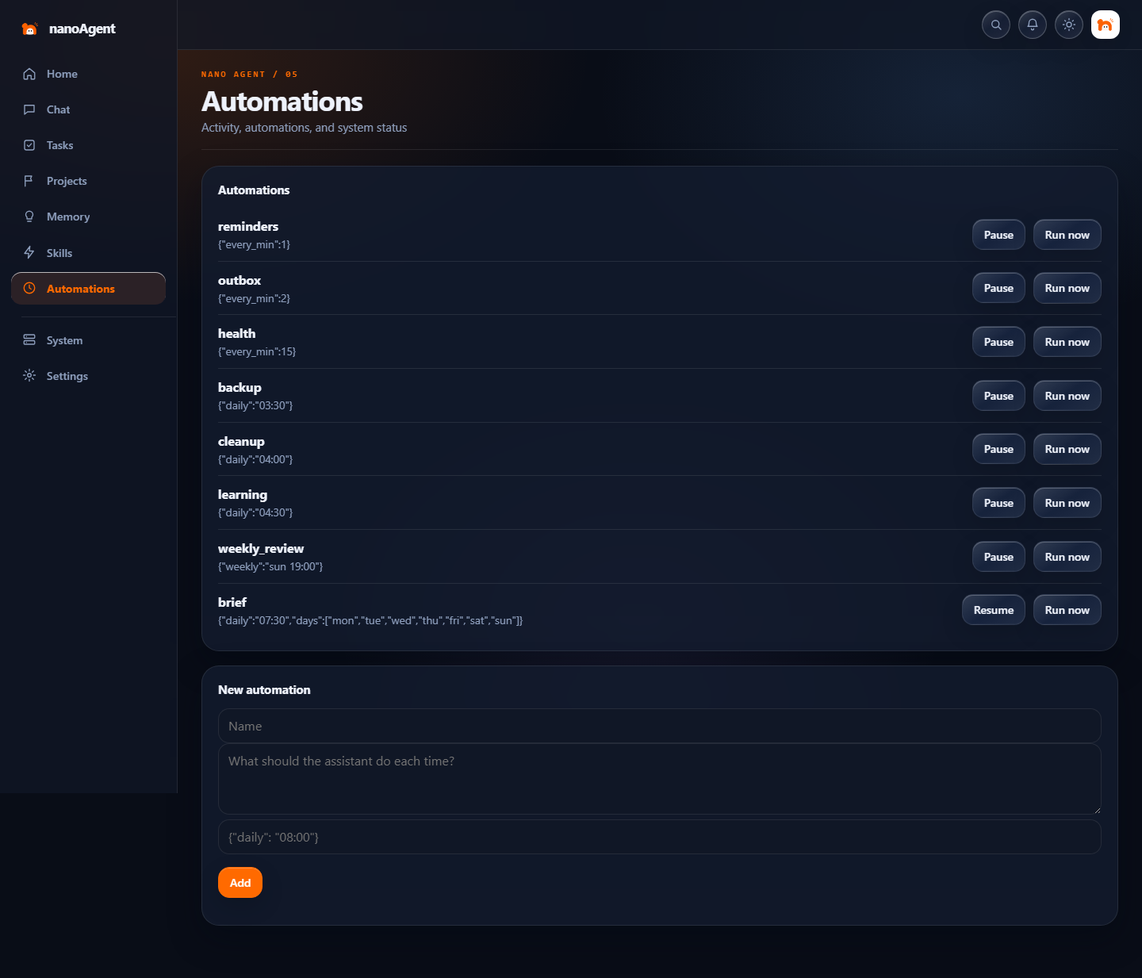
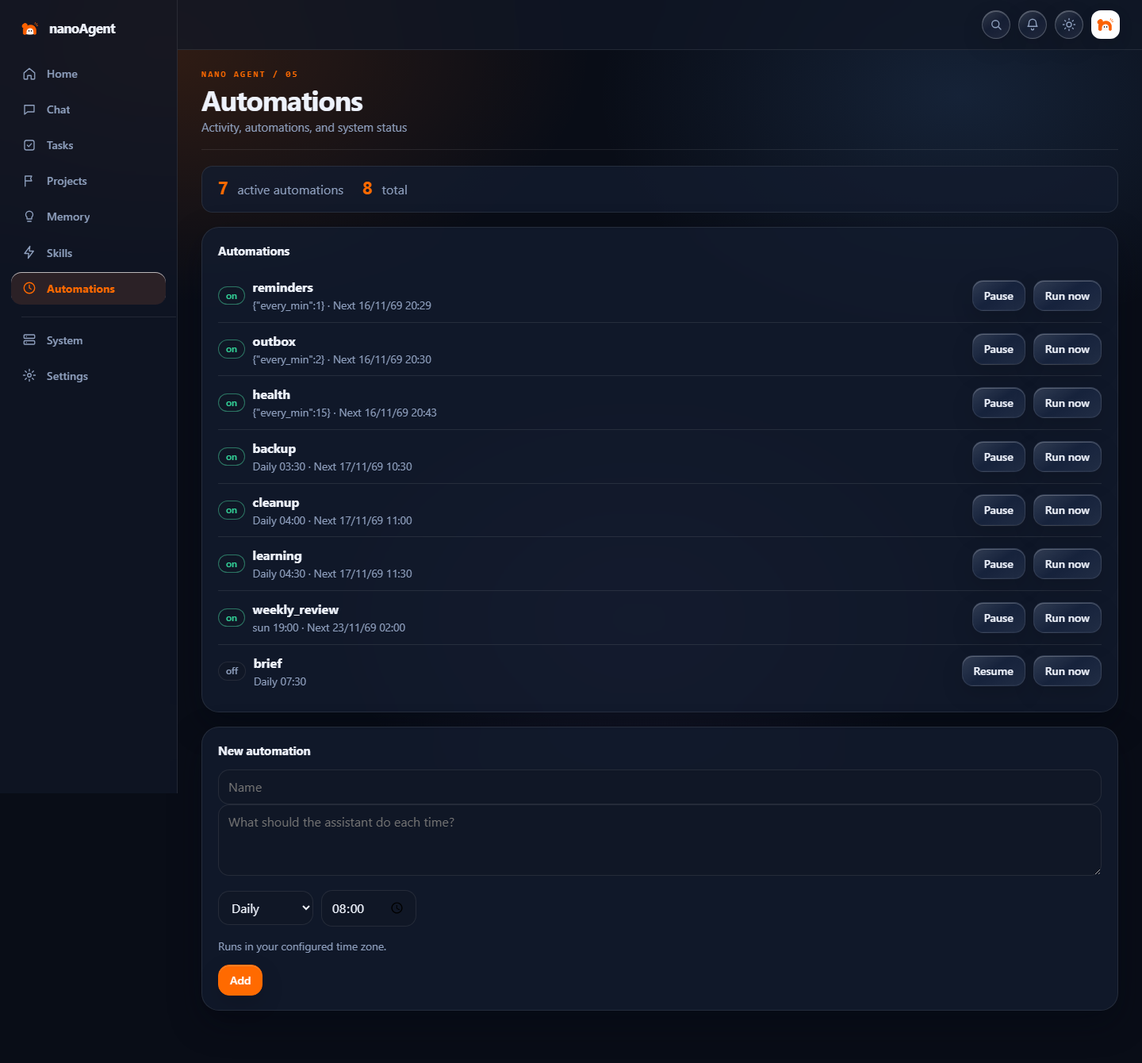
Expand console management pages and add projects

diff --git a/src/nanoagent/gateway/static/console.js b/src/nanoagent/gateway/static/console.js
@@ -401,11 +401,45 @@ async function vChat() {
 // ---------- manage ----------
 async function vProjects() {
   const v = clear();
+  const data = await api("/projects"), items = data.items || [];
+  const name = h("input", { placeholder: lang === "th" ? "ชื่อโปรเจกต์" : "Project name", maxlength: 100 });
+  const goal = h("input", { placeholder: lang === "th" ? "เป้าหมาย" : "Goal", maxlength: 500 });
+  const deadline = h("input", { type: "date", "aria-label": lang === "th" ? "กำหนดส่ง" : "Deadline" });
+  const next = h("input", { placeholder: lang === "th" ? "ขั้นต่อไป" : "Next step", maxlength: 300 });
   v.append(viewHeading(lang === "th" ? "โปรเจกต์" : "Projects",
-    lang === "th" ? "พื้นที่สำหรับงานหลายขั้นตอนและตัวแทนในอนาคต" : "A home for longer work and future agent teams.", 4),
-    panel(lang === "th" ? "โปรเจกต์ของคุณ" : "Your projects",
-      h("div", { class: "jv-empty-box" }, ico("projects", "ico ico-lg"),
-        h("p", { class: "jv-note", text: lang === "th" ? "ยังไม่มีโปรเจกต์ที่ติดตาม" : "No projects tracked yet." }))));
+    lang === "th" ? "ความคืบหน้า หมุดหมาย และสิ่งที่ติดขัด" : "Goals, milestones, and blockers in one place.", 4),
+    h("div", { class: "page-summary" },
+      h("strong", { text: String(items.length) }), h("span", { text: lang === "th" ? "โปรเจกต์ที่กำลังทำ" : "active projects" })),
+    panel(lang === "th" ? "เริ่มโปรเจกต์" : "Start a project",
+      h("div", { class: "project-form" }, name, goal, deadline, next),
+      h("button", { class: "pri", onclick: async () => { const r = await act("/projects", { name: name.value, goal: goal.value, deadline: deadline.value, next_step: next.value }); if (r.ok) vProjects(); }, text: lang === "th" ? "สร้างโปรเจกต์" : "Create project" })));
+  if (!items.length) v.append(panel(lang === "th" ? "โปรเจกต์ของคุณ" : "Your projects",
+    h("div", { class: "jv-empty-box" }, ico("projects", "ico ico-lg"),
+      h("p", { class: "jv-note", text: lang === "th" ? "ยังไม่มีโปรเจกต์ เริ่มจากชื่อและเป้าหมายด้านบน" : "No projects yet. Add a name and goal above." }))));
+  for (const p of items) {
+    const pct = p.progress.total ? Math.round(p.progress.done / p.progress.total * 100) : 0;
+    const kind = h("select", { "aria-label": lang === "th" ? "ประเภทรายการ" : "Item type" },
+      [["milestone", "Milestone"], ["blocker", "Blocker"], ["note", "Note"], ["decision", "Decision"]].map(([value, label]) => h("option", { value, text: label })));
+    const detail = h("input", { placeholder: lang === "th" ? "อธิบายรายการ" : "Describe a milestone, blocker, note, or decision", maxlength: 500 });
+    const itemDue = h("input", { type: "date", "aria-label": lang === "th" ? "กำหนดหมุดหมาย" : "Milestone due date" });
+    const itemRow = (x) => h("div", { class: "row" },
+      h("span", { class: "tag " + (x.done ? "ok" : x.kind === "blocker" ? "bad" : ""), text: x.kind }),
+      h("span", { class: "grow", text: x.text }), x.due ? h("span", { class: "dim", text: x.due }) : null,
+      ["milestone", "blocker"].includes(x.kind) && !x.done ? h("button", { onclick: async () => { const r = await post(`/projects/${p.id}/items/${x.id}/complete`); if (r.ok) vProjects(); else toast(r.error); }, text: x.kind === "blocker" ? "Resolved" : t("done") }) : null);
+    v.append(panel(p.name,
+      h("div", { class: "project-meta" },
+        p.deadline ? h("span", { class: "tag", text: (lang === "th" ? "กำหนด " : "Due ") + p.deadline }) : null,
+        h("span", { class: "dim", text: `${p.progress.done}/${p.progress.total} ${lang === "th" ? "หมุดหมาย" : "milestones"}` })),
+      h("div", { class: "bar project-progress" }, h("i", { style: `width:${pct}%` })),
+      p.goal ? h("p", null, h("b", { text: lang === "th" ? "เป้าหมาย: " : "Goal: " }), h("span", { text: p.goal })) : null,
+      p.next_step ? h("p", null, h("b", { text: lang === "th" ? "ขั้นต่อไป: " : "Next step: " }), h("span", { text: p.next_step })) : null,
+      h("h4", { text: lang === "th" ? "สิ่งที่ติดขัด" : "Blockers" }), ...(p.blockers.length ? p.blockers.map(itemRow) : [h("p", { class: "dim", text: lang === "th" ? "ไม่มีสิ่งที่ติดขัด" : "No blockers" })]),
+      h("h4", { text: lang === "th" ? "หมุดหมาย" : "Milestones" }), ...(p.milestones.length ? p.milestones.map(itemRow) : [h("p", { class: "dim", text: lang === "th" ? "ยังไม่มีหมุดหมาย" : "No milestones yet" })]),
+      p.recent.length ? h("details", null, h("summary", { text: lang === "th" ? "บันทึกและการตัดสินใจ" : "Notes and decisions" }), ...p.recent.map(itemRow)) : null,
+      h("div", { class: "project-add" }, kind, detail, itemDue,
+        h("button", { onclick: async () => { const r = await act(`/projects/${p.id}/items`, { kind: kind.value, text: detail.value, due: itemDue.value }); if (r.ok) vProjects(); }, text: t("add") })),
+      h("button", { class: "bad project-close", onclick: async () => { if (confirm(lang === "th" ? "ปิดโปรเจกต์นี้?" : "Close this project?")) { const r = await post(`/projects/${p.id}/close`); if (r.ok) vProjects(); else toast(r.error); } }, text: lang === "th" ? "ปิดโปรเจกต์" : "Close project" })));
+  }
 }
 async function vManage() {
   const v = clear(); const cur = sub.manage || "tasks";
@@ -413,8 +447,13 @@ async function vManage() {
     chips([["tasks", t("sub_tasks")], ["drafts", t("sub_drafts")]], cur, k => { sub.manage = k; vManage(); }));
   if (cur === "drafts") { const d = await api("/drafts"); v.append(d.drafts.length ? draftsPanel(d.drafts, vManage) : panel(t("drafts_none"))); return; }
   const d = await api("/tasks"); const title = h("input", { placeholder: t("task_title") }), due = h("input", { placeholder: t("task_due") });
+  const open = d.tasks.filter(x => !x.done), overdue = open.filter(x => x.due && new Date(x.due.replace(" ", "T")) < new Date());
+  v.append(h("div", { class: "page-summary" }, h("strong", { text: String(open.length) }), h("span", { text: lang === "th" ? "งานค้าง" : "open tasks" }),
+    h("strong", { text: String(overdue.length) }), h("span", { text: lang === "th" ? "เลยกำหนด" : "overdue" }),
+    h("strong", { text: String(d.reminders.length) }), h("span", { text: lang === "th" ? "การเตือน" : "reminders" })));
   v.append(panel(t("task_add"), title, h("div", { style: "height:6px" }), due, h("p", null, h("button", { class: "pri", onclick: async () => { const r = await act("/tasks", { title: title.value, due: due.value }); if (r.ok) vManage(); }, text: t("add") }))));
-  v.append(panel(t("tasks_title"), ...d.tasks.map(x => h("div", { class: "row" }, h("span", { class: "grow", style: x.done ? "text-decoration:line-through;opacity:.5" : "", text: x.title }), h("span", { class: "dim", text: x.due }),
+  v.append(panel(t("tasks_title"), ...d.tasks.map(x => h("div", { class: "row" }, h("span", { class: "grow", style: x.done ? "text-decoration:line-through;opacity:.5" : "", text: x.title }),
+    h("span", { class: "tag " + (x.done ? "ok" : overdue.some(y => y.id === x.id) ? "bad" : ""), text: x.done ? t("done") : x.due || (lang === "th" ? "ไม่มีกำหนด" : "No due date") }),
     x.done ? null : h("button", { onclick: async () => { await post("/tasks/" + x.id + "/complete"); vManage(); }, text: t("done") })))));
   const rt = h("input", { placeholder: t("rem_text") }), rw = h("input", { placeholder: t("rem_when") });
   v.append(panel(t("reminders_title"), ...d.reminders.map(r => h("div", { class: "row" }, h("span", { class: "grow", text: r.text }), h("span", { class: "dim", text: r.due }))), rt, h("div", { style: "height:6px" }), rw,
@@ -431,12 +470,18 @@ async function vMind() {
 }
 async function mMemory(v) {
   const d = await api("/memory"); const inp = h("input", { placeholder: t("memory_add_ph") });
+  const overview = d.overview || {}, kinds = ["fact", "rule", "lesson"];
+  v.append(h("div", { class: "page-summary" }, h("strong", { text: String(d.items.length) }), h("span", { text: lang === "th" ? "ความจำทั้งหมด" : "memories" }),
+    ...kinds.flatMap(k => [h("strong", { text: String(overview[k] || 0) }), h("span", { text: k })])));
   v.append(panel(t("memory_add"), inp, h("p", null, h("button", { class: "pri", onclick: async () => { const r = await act("/memory", { text: inp.value }); if (r.ok) vMind(); }, text: t("add") }))));
   v.append(panel(t("memory_title"), d.items.length ? d.items.map(m => h("div", { class: "row" }, h("span", { class: "tag", text: m.kind }), h("span", { class: "grow", text: m.text }), h("span", { class: "dim", text: m.source }),
     h("button", { class: "bad", onclick: async () => { await del("/memory/" + m.id); vMind(); }, text: t("delete") }))) : h("p", { class: "dim", text: t("memory_none") })));
 }
 async function mSkills(v) {
   const d = await api("/skills"); const txt = h("textarea", { placeholder: t("skill_import_ph") }), url = h("input", { placeholder: "https://github.com/owner/repo" });
+  const enabled = d.skills.filter(s => s.enabled && !s.pending).length, pending = d.skills.filter(s => s.pending).length;
+  v.append(h("div", { class: "page-summary" }, h("strong", { text: String(enabled) }), h("span", { text: lang === "th" ? "ทักษะที่เปิด" : "enabled skills" }),
+    h("strong", { text: String(pending) }), h("span", { text: lang === "th" ? "รอตรวจ" : "awaiting review" })));
   v.append(panel(t("skills_title"), d.skills.length ? d.skills.map(s => h("div", { class: "row" }, h("span", { class: "grow" }, h("b", { text: s.name }), h("div", { class: "dim", text: s.description })),
     h("span", { class: "tag " + (s.pending ? "warn" : s.enabled ? "ok" : ""), text: s.pending ? t("skill_pending") : s.enabled ? t("on") : t("off") }), h("button", { onclick: () => skillSheet(s), text: t("open") }))) : h("p", { class: "dim", text: t("skills_none") })));
   v.append(panel(t("skill_import"), h("p", { class: "dim", text: t("skill_import_note") }), url, h("p", null, h("button", { onclick: async () => { const r = await post("/skills/import", { kind: "url", url: url.value }); toast(JSON.stringify((r.results || []).map(x => x.ok ? x.name : x.error))); vMind(); }, text: t("import_github") })),
@@ -488,13 +533,30 @@ async function vWork() {
   if (!fixed) v.append(chips([["activity", t("sub_activity")], ["auto", t("sub_auto")], ["system", t("sub_system")]], cur, k => { sub.work = k; vWork(); }));
   if (cur === "activity") { const a = await api("/activity"); const row = x => h("div", { class: "row" }, h("span", { class: "tag " + (x.status === "done" ? "ok" : x.status === "failed" ? "bad" : "warn"), text: x.status }), h("span", { class: "grow" }, h("b", { text: x.title }), x.steps.length ? h("div", { class: "dim", text: x.steps.slice(-3).map(s => s.text).join(" · ") }) : null), h("span", { class: "dim", text: Math.round(x.secs) + "s" }));
     v.append(panel(t("running_title"), a.running.length ? a.running.map(row) : h("p", { class: "dim", text: t("work_idle") })), panel(t("recent_title"), a.done.map(row))); }
-  if (cur === "auto") { const a = await api("/automations"); const nm = h("input", { placeholder: t("auto_name") }), pr = h("textarea", { placeholder: t("auto_prompt") }), sc = h("input", { placeholder: '{"daily": "08:00"}' });
-    v.append(panel(t("auto_title"), a.items.map(x => h("div", { class: "row" }, h("span", { class: "grow" }, h("b", { text: x.name }), h("div", { class: "dim", text: JSON.stringify(x.schedule) + (x.last_status ? " · " + x.last_status : "") })),
+  if (cur === "auto") { const a = await api("/automations"); const nm = h("input", { placeholder: t("auto_name") }), pr = h("textarea", { placeholder: t("auto_prompt") });
+    const frequency = h("select", { "aria-label": lang === "th" ? "ความถี่" : "Frequency" },
+      h("option", { value: "daily", text: lang === "th" ? "ทุกวัน" : "Daily" }), h("option", { value: "weekly", text: lang === "th" ? "ทุกสัปดาห์" : "Weekly" }));
+    const day = h("select", { "aria-label": lang === "th" ? "วัน" : "Day of week" },
+      ...["mon", "tue", "wed", "thu", "fri", "sat", "sun"].map(d => h("option", { value: d, text: d.toUpperCase() })));
+    const at = h("input", { type: "time", value: "08:00", "aria-label": lang === "th" ? "เวลา" : "Time" });
+    frequency.addEventListener("change", () => { day.hidden = frequency.value !== "weekly"; }); day.hidden = true;
+    const scheduleText = x => x.schedule.daily ? (lang === "th" ? "ทุกวัน " : "Daily ") + x.schedule.daily : x.schedule.weekly ? x.schedule.weekly : JSON.stringify(x.schedule);
+    v.append(h("div", { class: "page-summary" }, h("strong", { text: String(a.items.filter(x => x.enabled).length) }), h("span", { text: lang === "th" ? "ระบบที่เปิดอยู่" : "active automations" }),
+      h("strong", { text: String(a.items.length) }), h("span", { text: lang === "th" ? "ทั้งหมด" : "total" })),
+      panel(t("auto_title"), a.items.length ? a.items.map(x => h("div", { class: "row" }, h("span", { class: "tag " + (x.enabled ? "ok" : ""), text: x.enabled ? t("on") : t("off") }),
+      h("span", { class: "grow" }, h("b", { text: x.name }), h("div", { class: "dim", text: scheduleText(x) + (x.next_run && x.enabled ? " · Next " + when(x.next_run) : "") + (x.last_status ? " · " + x.last_status : "") })),
       h("button", { onclick: async () => { await post("/automations/" + x.id + "/toggle", { enabled: !x.enabled }); vWork(); }, text: x.enabled ? t("pause") : t("resume") }), h("button", { onclick: async () => { const r = await post("/automations/" + x.id + "/run"); toast(r.status || r.error); }, text: t("run_now") }),
-      x.builtin ? null : h("button", { class: "bad", onclick: async () => { await del("/automations/" + x.id); vWork(); }, text: t("delete") })))),
-      panel(t("auto_new"), nm, pr, sc, h("p", null, h("button", { class: "pri", onclick: async () => { let s; try { s = JSON.parse(sc.value); } catch (e) { return toast("JSON"); } const r = await act("/automations", { name: nm.value, prompt: pr.value, schedule: s }); if (r.ok) vWork(); }, text: t("add") })))); }
+      x.builtin ? null : h("button", { class: "bad", onclick: async () => { if (confirm(lang === "th" ? "ลบระบบนี้?" : "Delete this automation?")) { await del("/automations/" + x.id); vWork(); } }, text: t("delete") }))) : h("p", { class: "dim", text: lang === "th" ? "ยังไม่มีระบบอัตโนมัติ" : "No automations yet." })),
+      panel(t("auto_new"), nm, pr, h("div", { class: "auto-schedule" }, frequency, day, at),
+        h("p", { class: "dim", text: lang === "th" ? "ระบบจะทำงานตามเวลาในเขตเวลาที่ตั้งไว้" : "Runs in your configured time zone." }),
+        h("button", { class: "pri", onclick: async () => { const schedule = frequency.value === "weekly" ? { weekly: `${day.value} ${at.value}` } : { daily: at.value }; const r = await act("/automations", { name: nm.value, prompt: pr.value, schedule }); if (r.ok) vWork(); }, text: t("add") }))); }
   if (cur === "system") { const s = await api("/system"), i = s.info; const bar = (l, p) => p == null ? null : h("div", { class: "row" }, h("span", { class: "grow", text: l }), h("div", { class: "bar", style: "width:50%" }, h("i", { style: "width:" + p + "%" })), h("span", { class: "dim", text: p + "%" }));
-    v.append(panel(t("system_title"), h("p", { class: "dim", text: `${i.host} · ${i.os} · Python ${i.python} · nano Agent ${i.version}` }), bar("CPU", i.cpu_pct), bar("RAM", i.ram_pct), bar("Disk", i.disk_pct),
+    const resources = [["CPU", i.cpu_pct], ["RAM", i.ram_pct], ["Disk", i.disk_pct], [i.gpu ? i.gpu.name : "GPU", i.gpu?.util_pct]];
+    v.append(h("div", { class: "page-summary" }, h("strong", { text: String(s.health.filter(x => x.ok).length) }), h("span", { text: lang === "th" ? "รายการปกติ" : "healthy checks" }),
+      h("strong", { text: String(s.health.length - s.health.filter(x => x.ok).length) }), h("span", { text: lang === "th" ? "ต้องดู" : "need attention" })),
+      panel(t("system_title"), h("p", { class: "dim", text: `${i.host} · ${i.os} · Python ${i.python} · nano Agent ${i.version}` }),
+      h("div", { class: "resource-grid" }, resources.map(([name, pct]) => h("div", { class: "resource-card" }, h("strong", { text: pct == null ? "—" : `${Math.round(pct)}%` }), h("span", { text: name }))))));
+    v.append(panel(lang === "th" ? "การใช้ทรัพยากร" : "Resource usage", bar("CPU", i.cpu_pct), bar("RAM", i.ram_pct), bar("Disk", i.disk_pct),
       i.gpu ? bar("GPU " + i.gpu.name, i.gpu.util_pct) : null, i.cpu_pct == null ? h("p", { class: "dim", text: t("system_psutil") }) : null),
       panel(t("health_title"), s.health.map(c => h("div", { class: "row" }, h("span", { class: "tag " + (c.ok ? "ok" : "bad"), text: c.ok ? "OK" : "!" }), h("span", { class: "grow", text: c.name }), h("span", { class: "dim", text: c.detail })))),
       panel(t("providers_title"), Object.entries(s.providers).map(([n, p]) => h("div", { class: "row" }, h("b", { text: n }), h("span", { class: "dim grow", text: p.kind + " · " + p.base_url }))), h("p", null, h("button", { onclick: async () => { const r = await post("/models/test"); toast(r.ok ? "OK: " + r.model : r.message); }, text: t("test_model") }))),

diff --git a/src/nanoagent/gateway/static/dashboard.css b/src/nanoagent/gateway/static/dashboard.css
@@ -444,6 +444,21 @@ button:focus-visible, .btn:focus-visible, input:focus-visible, textarea:focus-vi
 
 .bar { height: 8px; border-radius: 999px; background: var(--bg-elev); border: 1px solid var(--line); overflow: hidden; }
 .bar > i { display: block; height: 100%; background: var(--accent); border-radius: 999px; }
+.page-summary { display: flex; align-items: baseline; flex-wrap: wrap; gap: 5px 12px; padding: 16px 20px; margin: 0 0 18px; border: 1px solid var(--line); border-radius: var(--radius-sm); background: var(--panel); color: var(--dim); }
+.page-summary strong { color: var(--accent); font-size: 1.35rem; line-height: 1; margin-left: 12px; }
+.page-summary strong:first-child { margin-left: 0; }
+.project-form { display: grid; grid-template-columns: repeat(2, minmax(0, 1fr)); gap: 10px; margin: 10px 0 14px; }
+.project-meta, .project-add, .auto-schedule { display: flex; align-items: center; flex-wrap: wrap; gap: 10px; margin: 12px 0; }
+.project-progress { height: 10px; margin: 14px 0; }
+.project-add input { flex: 1 1 230px; }
+.project-add select, .auto-schedule select, .auto-schedule input { width: auto; min-width: 120px; }
+.project-close { margin-top: 16px; }
+.panel h4 { margin: 20px 0 5px; font-size: .88rem; }
+.resource-grid { display: grid; grid-template-columns: repeat(4, minmax(0, 1fr)); gap: 10px; margin: 14px 0 4px; }
+.resource-card { display: flex; flex-direction: column; gap: 3px; align-items: center; padding: 18px 10px; border: 1px solid var(--line); border-radius: var(--radius-sm); background: var(--bg-elev); }
+.resource-card strong { font-size: 1.5rem; color: var(--accent); }
+.resource-card span { color: var(--dim); font-size: .82rem; text-align: center; overflow-wrap: anywhere; }
+@media (max-width: 640px) { .project-form, .resource-grid { grid-template-columns: repeat(2, minmax(0, 1fr)); } }
 
 pre {
   background: var(--bg-elev);

diff --git a/src/nanoagent/projects.py b/src/nanoagent/projects.py
@@ -1,0 +1,79 @@
+"""Owner-managed projects and their milestones, blockers, notes, and decisions."""
+from __future__ import annotations
+
+import time
+from datetime import date
+
+from . import db
+
+KINDS = {"milestone", "blocker", "note", "decision"}
+
+
+def _text(value: str, limit: int) -> str:
+    return " ".join((value or "").split())[:limit]
+
+
+def _date(value: str) -> str:
+    if not value:
+        return ""
+    return date.fromisoformat(value).isoformat()
+
+
+def list_(include_closed: bool = False) -> list[dict]:
+    sql = "SELECT * FROM projects" + ("" if include_closed else " WHERE status='active'") + " ORDER BY status, id DESC"
+    result = []
+    for row in db.q(sql):
+        project = dict(row)
+        items = [dict(item) for item in db.q("SELECT * FROM project_items WHERE project_id=? ORDER BY id", (row["id"],))]
+        project["milestones"] = [item for item in items if item["kind"] == "milestone"]
+        project["blockers"] = [item for item in items if item["kind"] == "blocker" and not item["done"]]
+        project["recent"] = [item for item in items if item["kind"] in {"note", "decision"}][-5:]
+        project["progress"] = {"done": sum(bool(item["done"]) for item in project["milestones"]),
+                               "total": len(project["milestones"])}
+        result.append(project)
+    return result
+
+
+def create(name: str, goal: str = "", deadline: str = "", next_step: str = "") -> dict:
+    name = _text(name, 100)
+    if not name:
+        return {"ok": False, "error": "a project name is required"}
+    try:
+        deadline = _date(deadline)
+    except ValueError:
+        return {"ok": False, "error": "deadline must be YYYY-MM-DD"}
+    pid = db.run("INSERT INTO projects(ts,name,goal,deadline,next_step) VALUES(?,?,?,?,?)",
+                 (time.time(), name, _text(goal, 500), deadline, _text(next_step, 300)))
+    return {"ok": True, "id": pid}
+
+
+def add_item(pid: int, kind: str, text: str, due: str = "") -> dict:
+    if not db.one("SELECT 1 FROM projects WHERE id=? AND status='active'", (pid,)):
+        return {"ok": False, "error": "no active project"}
+    if kind not in KINDS:
+        return {"ok": False, "error": "invalid item kind"}
+    text = _text(text, 500)
+    if not text:
+        return {"ok": False, "error": "text is required"}
+    try:
+        due = _date(due)
+    except ValueError:
+        return {"ok": False, "error": "due date must be YYYY-MM-DD"}
+    item_id = db.run("INSERT INTO project_items(project_id,ts,kind,text,due) VALUES(?,?,?,?,?)",
+                     (pid, time.time(), kind, text, due if kind == "milestone" else ""))
+    return {"ok": True, "id": item_id}
+
+
+def complete_item(pid: int, item_id: int) -> dict:
+    row = db.one("SELECT 1 FROM project_items WHERE id=? AND project_id=? AND kind IN ('milestone','blocker')", (item_id, pid))
+    if not row:
+        return {"ok": False, "error": "no such milestone or blocker"}
+    db.run("UPDATE project_items SET done=1, done_ts=? WHERE id=? AND project_id=?", (time.time(), item_id, pid))
+    return {"ok": True}
+
+
+def close(pid: int) -> dict:
+    if not db.one("SELECT 1 FROM projects WHERE id=? AND status='active'", (pid,)):
+        return {"ok": False, "error": "no active project"}
+    db.run("UPDATE projects SET status='closed', closed_ts=? WHERE id=?", (time.time(), pid))
+    return {"ok": True}

diff --git a/src/nanoagent/db.py b/src/nanoagent/db.py
@@ -14,6 +14,10 @@ CREATE TABLE IF NOT EXISTS messages(id INTEGER PRIMARY KEY, ts REAL, session TEX
 CREATE TABLE IF NOT EXISTS memory(id INTEGER PRIMARY KEY, ts REAL, kind TEXT, text TEXT, source TEXT DEFAULT '');
 CREATE TABLE IF NOT EXISTS tasks(id INTEGER PRIMARY KEY, ts REAL, title TEXT, due REAL, priority INTEGER DEFAULT 2,
   done INTEGER DEFAULT 0, done_ts REAL DEFAULT 0);
+CREATE TABLE IF NOT EXISTS projects(id INTEGER PRIMARY KEY, ts REAL, name TEXT NOT NULL, goal TEXT DEFAULT '',
+  deadline TEXT DEFAULT '', next_step TEXT DEFAULT '', status TEXT DEFAULT 'active', closed_ts REAL DEFAULT 0);
+CREATE TABLE IF NOT EXISTS project_items(id INTEGER PRIMARY KEY, project_id INTEGER NOT NULL REFERENCES projects(id) ON DELETE CASCADE,
+  ts REAL, kind TEXT NOT NULL, text TEXT NOT NULL, due TEXT DEFAULT '', done INTEGER DEFAULT 0, done_ts REAL DEFAULT 0);
 CREATE TABLE IF NOT EXISTS reminders(id INTEGER PRIMARY KEY, ts REAL, text TEXT, due REAL, fired INTEGER DEFAULT 0);
 CREATE TABLE IF NOT EXISTS drafts(id INTEGER PRIMARY KEY, ts REAL, channel TEXT, target TEXT, text TEXT, code TEXT,
   status TEXT DEFAULT 'pending', decided_ts REAL DEFAULT 0, note TEXT DEFAULT '');
@@ -38,6 +42,7 @@ CREATE TABLE IF NOT EXISTS sandbox_audit(id INTEGER PRIMARY KEY, ts REAL, kind T
   reason TEXT DEFAULT '', run_id TEXT DEFAULT '', prev TEXT DEFAULT '', hash TEXT DEFAULT '');
 CREATE INDEX IF NOT EXISTS ix_messages_session ON messages(session, id);
 CREATE INDEX IF NOT EXISTS ix_activity_ts ON activity(ts);
+CREATE INDEX IF NOT EXISTS ix_project_items_project ON project_items(project_id, id);
 """
 
 _initialised: set[str] = set()

diff --git a/src/nanoagent/gateway/app.py b/src/nanoagent/gateway/app.py
@@ -31,6 +31,7 @@ from .. import (
     patching,
     paths,
     providers,
+    projects,
     scheduler,
     skills,
     tasks,
@@ -207,6 +208,29 @@ def create_app() -> FastAPI:
     @api.post("/tasks/{tid}/complete")
     async def tasks_done(tid: int):
         return tasks.complete(tid)
+
+    # projects
+    @api.get("/projects")
+    async def projects_list():
+        return {"items": projects.list_()}
+
+    @api.post("/projects")
+    async def projects_create(request: Request):
+        d = await _json(request)
+        return projects.create(d.get("name", ""), d.get("goal", ""), d.get("deadline", ""), d.get("next_step", ""))
+
+    @api.post("/projects/{pid}/items")
+    async def project_item_add(pid: int, request: Request):
+        d = await _json(request)
+        return projects.add_item(pid, d.get("kind", ""), d.get("text", ""), d.get("due", ""))
+
+    @api.post("/projects/{pid}/items/{item_id}/complete")
+    async def project_item_complete(pid: int, item_id: int):
+        return projects.complete_item(pid, item_id)
+
+    @api.post("/projects/{pid}/close")
+    async def project_close(pid: int):
+        return projects.close(pid)
 
     @api.post("/reminders")
     async def reminders_add(request: Request):

diff --git a/tests/test_core.py b/tests/test_core.py
@@ -16,6 +16,7 @@ from nanoagent import (
     learning,
     memory,
     outbox,
+    projects,
     scheduler,
     skills,
     tasks,
@@ -154,6 +155,19 @@ def test_tasks_and_reminders_parse_times():
     assert 3500 < t - time.time() < 3700
     tid = tasks.add("x")["id"]
     assert tasks.complete(tid)["ok"] and all(t["id"] != tid for t in tasks.list_(False))
+
+
+def test_project_progress_blockers_and_close():
+    pid = projects.create("Launch", "Ship the release", "2030-01-02", "Review code")["id"]
+    milestone = projects.add_item(pid, "milestone", "Review code", "2030-01-01")["id"]
+    blocker = projects.add_item(pid, "blocker", "Waiting for approval")["id"]
+    assert projects.create("Bad", deadline="tomorrow")["ok"] is False
+    assert projects.add_item(pid, "unknown", "x")["ok"] is False
+    assert projects.complete_item(pid, milestone)["ok"]
+    p = projects.list_()[0]
+    assert p["progress"] == {"done": 1, "total": 1} and len(p["blockers"]) == 1
+    assert projects.complete_item(pid, blocker)["ok"] and not projects.list_()[0]["blockers"]
+    assert projects.close(pid)["ok"] and not projects.list_()
 
 
 # ---------------------------------------------------------------- skills

diff --git a/tests/test_gateway.py b/tests/test_gateway.py
@@ -40,6 +40,19 @@ def _fill(path: str) -> str:
     return re.sub(r"\{[^}]+\}", "1", path)
 
 
+def test_project_routes_round_trip(owner):
+    created = owner.post("/api/projects", json={"name": "Launch", "goal": "Ship it"}).json()
+    assert created["ok"]
+    pid = created["id"]
+    item = owner.post(f"/api/projects/{pid}/items", json={"kind": "milestone", "text": "Review"}).json()
+    assert item["ok"]
+    assert owner.get("/api/projects").json()["items"][0]["progress"] == {"done": 0, "total": 1}
+    assert owner.post(f"/api/projects/{pid}/items/{item['id']}/complete").json()["ok"]
+    assert owner.get("/api/projects").json()["items"][0]["progress"]["done"] == 1
+    assert owner.post(f"/api/projects/{pid}/close").json()["ok"]
+    assert owner.get("/api/projects").json()["items"] == []
+
+
 # ---------------------------------------------------------------- auth coverage (the rule: owner-only on every route)
 
 def test_every_route_is_owner_only_or_explicitly_public(app):

diff --git a/scripts/preview_console.py b/scripts/preview_console.py
@@ -52,6 +52,13 @@ def main() -> int:
                (now, "fact", "Prefers concise daily updates", "sample preview"))
         db.run("INSERT INTO memory(ts,kind,text,source) VALUES(?,?,?,?)",
                (now, "rule", "Ask before sending messages", "sample preview"))
+        from nanoagent import projects
+
+        project = projects.create("Plan a weekend trip", "Choose a destination and book the essentials", "2026-12-05", "Compare destinations")
+        projects.add_item(project["id"], "milestone", "Choose a destination", "2026-11-20")
+        projects.add_item(project["id"], "milestone", "Book travel", "2026-11-25")
+        projects.add_item(project["id"], "blocker", "Agree on the travel budget")
+        projects.add_item(project["id"], "decision", "Travel by train")
         app = create_app()
         cfg = {"host": "127.0.0.1", "port": 0, "log_level": "error", "access_log": False}
         server = uvicorn.Server(uvicorn.Config(app, **cfg))

diff --git a/README.md b/README.md
@@ -47,6 +47,7 @@ The hosted install URLs in [the install guide](docs/INSTALL.md) work only after 
 - Prepare LINE replies and other outbound actions as drafts for owner approval.
 - Propose bounded code changes, run checks, and wait for owner approval before applying them.
 - Run locally with optional Google, MCP, system metrics, keyring and Docker sandbox integrations.
+- Track projects in the console with goals, deadlines, milestones, blockers, notes, and decisions.
 
 ## Screenshots
 
@@ -58,7 +59,7 @@ The project includes the console logo and icon in `assets/`. These screenshots u
 
 ![nano Agent skills console](docs/img/console-skills.png)
 
-Choose **Dark**, **Modern**, **Calm**, or **Minimal** in Settings → Appearance. The choice is saved locally. The Chat tab supports direct conversation; Home, Manage, System, Automations, Skills, Memory, and Settings use the same navigation and panel design. See [Modern](docs/img/console-modern.png), [Calm](docs/img/console-calm.png), [Minimal](docs/img/console-minimal.png), and [Chat](docs/img/console-chat.png) previews.
+Choose **Light** or **Dark** in Settings → Appearance. The choice is saved locally. The console includes Chat, Tasks, Projects, Memory, Skills, Automations, System, and Settings. See [Projects](docs/img/console-projects.png), [Automations](docs/img/console-automations.png), and [Chat](docs/img/console-chat.png) previews.
 
 Recreate them with `python scripts/preview_console.py --screenshots --out docs/img` after installing Playwright Chromium.
 
